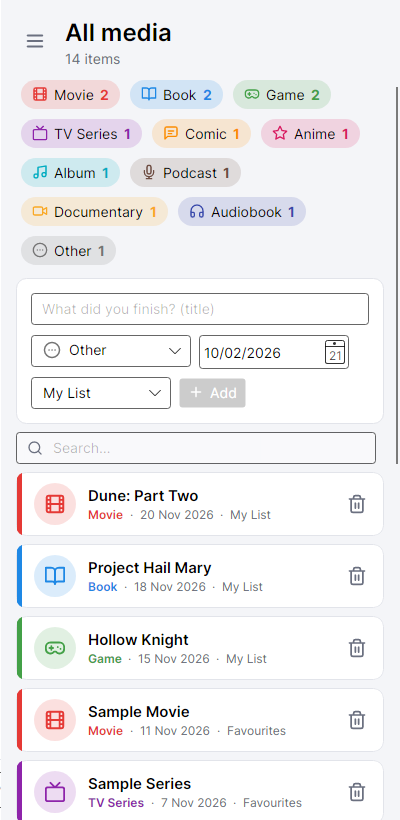
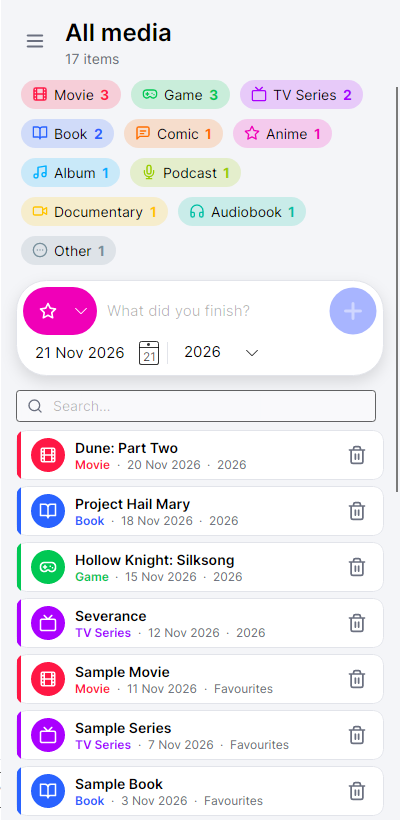
MediaLog: automatic year lists, one-line add bar, vivid type colors
- A list for the current year is created automatically and selected by
  default; previous years are kept and a new list appears on New Year,
  even while the app is running.
- Entries are added from a single slick bar (type pill, title, date,
  big round + button); on phones date/list drop to a second row.
- More distinct, saturated colors per type; entry rows are more compact
  with solid colored icon badges.

Claude-Session: https://claude.ai/code/session_01NWBCcXr1uMHCvRDya14kEE

diff --git a/apps/MediaLog/MediaLog/ViewModels/MainViewModel.cs b/apps/MediaLog/MediaLog/ViewModels/MainViewModel.cs
@@ -2,6 +2,7 @@ using System;
 using System.Collections.Generic;
 using System.Collections.ObjectModel;
 using System.Linq;
+using Avalonia.Threading;
 using CommunityToolkit.Mvvm.ComponentModel;
 using CommunityToolkit.Mvvm.Input;
 using MediaLog.Models;
@@ -36,7 +37,50 @@ public partial class MainViewModel : ViewModelBase
 
         NewType = Types[0];
         NewDate = DateTime.Today;
-        SelectedNav = NavItems.Count > 1 ? NavItems[1] : Master;
+        SelectedNav = EnsureCurrentYearList();
+
+        // Roll over to a new year list if the app is left open across New Year.
+        if (store is not null)
+        {
+            _yearTimer = new DispatcherTimer(TimeSpan.FromMinutes(5), DispatcherPriority.Background, (_, _) => CheckYear());
+            _yearTimer.Start();
+        }
+    }
+
+    private readonly DispatcherTimer? _yearTimer;
+
+    /// <summary>The automatic list for the current calendar year.</summary>
+    public ListViewModel? CurrentYearList => UserLists.FirstOrDefault(l => l.Model!.Year == DateTime.Today.Year);
+
+    /// <summary>
+    /// Makes sure a list for the current year exists (previous years' lists are kept).
+    /// </summary>
+    private ListViewModel EnsureCurrentYearList()
+    {
+        if (CurrentYearList is { } existing)
+            return existing;
+
+        var year = DateTime.Today.Year;
+        var list = new MediaList { Name = year.ToString(System.Globalization.CultureInfo.InvariantCulture), Year = year };
+        _library.Lists.Add(list);
+        var vm = AddListViewModel(list);
+        Persist();
+        return vm;
+    }
+
+    private void CheckYear()
+    {
+        if (CurrentYearList is not null)
+            return;
+        var previous = UserLists.Where(l => l.IsYearList).MaxBy(l => l.Model!.Year);
+        var created = EnsureCurrentYearList();
+        // Follow the rollover if the user was looking at last year's list.
+        if (SelectedNav == previous || SelectedNav is null)
+            SelectedNav = created;
+        else
+            Refresh();
+        if (NewDate is { } d && d.Year < created.Model!.Year)
+            NewDate = DateTime.Today;
     }
 
     public IReadOnlyList<MediaTypeInfo> Types => MediaTypeInfo.All;
@@ -54,12 +98,19 @@ public partial class MainViewModel : ViewModelBase
     public ObservableCollection<TypeStatViewModel> Stats { get; } = [];
 
     [ObservableProperty]
-    [NotifyPropertyChangedFor(nameof(IsMasterSelected), nameof(IsUserListSelected))]
+    [NotifyPropertyChangedFor(nameof(IsMasterSelected), nameof(IsUserListSelected),
+        nameof(IsRenamableSelected), nameof(CanDeleteSelected))]
     [NotifyCanExecuteChangedFor(nameof(AddEntryCommand))]
     public partial ListViewModel? SelectedNav { get; set; }
 
     public bool IsMasterSelected => SelectedNav?.IsMaster == true;
     public bool IsUserListSelected => SelectedNav is { IsMaster: false };
+
+    /// <summary>Selected list can be renamed in place (custom lists only).</summary>
+    public bool IsRenamableSelected => SelectedNav?.CanRename == true;
+
+    /// <summary>Everything but the master list and the current year's list can be deleted.</summary>
+    public bool CanDeleteSelected => SelectedNav is { IsMaster: false } s && s != CurrentYearList;
 
     /// <summary>Total number of entries in the selected scope (before search / type filter).</summary>
     [ObservableProperty]
@@ -123,7 +174,7 @@ public partial class MainViewModel : ViewModelBase
         if (value is { IsMaster: false })
             TargetList = value;
         else if (TargetList is null || !UserLists.Contains(TargetList))
-            TargetList = UserLists.FirstOrDefault();
+            TargetList = CurrentYearList ?? UserLists.FirstOrDefault();
         Refresh();
     }
 
@@ -211,7 +262,7 @@ public partial class MainViewModel : ViewModelBase
     private void ConfirmDeleteList()
     {
         IsConfirmingDelete = false;
-        if (SelectedNav?.Model is not { } model)
+        if (!CanDeleteSelected || SelectedNav?.Model is not { } model)
             return;
 
         var vm = SelectedNav;
@@ -220,7 +271,7 @@ public partial class MainViewModel : ViewModelBase
         UserLists.Remove(vm);
         NavItems.Remove(vm);
         if (TargetList == vm)
-            TargetList = UserLists.FirstOrDefault();
+            TargetList = CurrentYearList ?? UserLists.FirstOrDefault();
         if (_lastDeleted?.List == vm)
             DismissUndo();
         Persist();
@@ -240,12 +291,25 @@ public partial class MainViewModel : ViewModelBase
     private void ToggleType(TypeStatViewModel stat) =>
         TypeFilter = TypeFilter == stat.Type.Kind ? null : stat.Type.Kind;
 
+    /// <summary>
+    /// Adds a list to the sidebar, keeping year lists (newest first) above custom lists.
+    /// </summary>
     private ListViewModel AddListViewModel(MediaList list)
     {
         var vm = ListViewModel.ForList(list, OnListRenamed);
-        UserLists.Add(vm);
-        NavItems.Add(vm);
         vm.Count = list.Entries.Count;
+
+        int index;
+        if (list.Year is { } year)
+        {
+            index = UserLists.TakeWhile(l => l.Model!.Year is { } y && y > year).Count();
+        }
+        else
+        {
+            index = UserLists.Count;
+        }
+        UserLists.Insert(index, vm);
+        NavItems.Insert(index + 1, vm); // + 1 for the master list
         return vm;
     }
 

diff --git a/apps/MediaLog/MediaLog/Models/MediaTypeInfo.cs b/apps/MediaLog/MediaLog/Models/MediaTypeInfo.cs
@@ -15,7 +15,10 @@ public sealed class MediaTypeInfo
         Label = label;
         Color = Color.Parse(color);
         Brush = new ImmutableSolidColorBrush(Color);
-        SoftBrush = new ImmutableSolidColorBrush(Color, 0.16);
+        SoftBrush = new ImmutableSolidColorBrush(Color, 0.18);
+        // Dark foreground on light colors (yellow, lime…), white on the rest.
+        var luminance = (0.2126 * Color.R + 0.7152 * Color.G + 0.0722 * Color.B) / 255;
+        OnBrush = luminance > 0.6 ? new ImmutableSolidColorBrush(Color.Parse("#1A1A1A")) : Brushes.White;
         Icon = Geometry.Parse(icon);
     }
 
@@ -27,6 +30,9 @@ public sealed class MediaTypeInfo
     /// <summary>Translucent version of <see cref="Brush"/> used for chip / badge backgrounds.</summary>
     public IBrush SoftBrush { get; }
 
+    /// <summary>Readable foreground to draw on top of <see cref="Brush"/>.</summary>
+    public IBrush OnBrush { get; }
+
     /// <summary>Stroke icon drawn on a 24×24 grid (rendered by <see cref="StrokeIcon"/>).</summary>
     public Geometry Icon { get; }
 
@@ -34,27 +40,27 @@ public sealed class MediaTypeInfo
 
     public static IReadOnlyList<MediaTypeInfo> All { get; } =
     [
-        new(MediaKind.Movie, "Movie", "#E53935",
+        new(MediaKind.Movie, "Movie", "#FF1744",
             "M5 3h14a2 2 0 0 1 2 2v14a2 2 0 0 1-2 2H5a2 2 0 0 1-2-2V5a2 2 0 0 1 2-2z M7 3v18 M17 3v18 M3 12h18 M3 7.5h4 M3 16.5h4 M17 7.5h4 M17 16.5h4"),
-        new(MediaKind.Series, "TV Series", "#8E24AA",
+        new(MediaKind.Series, "TV Series", "#AA00FF",
             "M4 7h16a2 2 0 0 1 2 2v11a2 2 0 0 1-2 2H4a2 2 0 0 1-2-2V9a2 2 0 0 1 2-2z M17 2l-5 5-5-5"),
-        new(MediaKind.Book, "Book", "#1E88E5",
+        new(MediaKind.Book, "Book", "#2962FF",
             "M2 3h6a4 4 0 0 1 4 4v14a3 3 0 0 0-3-3H2z M22 3h-6a4 4 0 0 0-4 4v14a3 3 0 0 1 3-3h7z"),
-        new(MediaKind.Game, "Game", "#43A047",
+        new(MediaKind.Game, "Game", "#00C853",
             "M7 6h10a5 5 0 0 1 5 5v2a5 5 0 0 1-9 3h-2a5 5 0 0 1-9-3v-2a5 5 0 0 1 5-5z M6 12h4 M8 10v4 M15 11h.01 M18 13h.01"),
-        new(MediaKind.Comic, "Comic", "#FB8C00",
+        new(MediaKind.Comic, "Comic", "#FF6D00",
             "M21 15a2 2 0 0 1-2 2H7l-4 4V5a2 2 0 0 1 2-2h14a2 2 0 0 1 2 2z M8 9h8 M8 13h5"),
-        new(MediaKind.Anime, "Anime", "#D81B60",
+        new(MediaKind.Anime, "Anime", "#F000B8",
             "M12 2l3.09 6.26L22 9.27l-5 4.87 1.18 6.88L12 17.77l-6.18 3.25L7 14.14 2 9.27l6.91-1.01z"),
-        new(MediaKind.Music, "Album", "#00ACC1",
+        new(MediaKind.Music, "Album", "#00B0FF",
             "M9 18V5l12-2v13 M6 15a3 3 0 1 1 0 6 3 3 0 0 1 0-6z M18 13a3 3 0 1 1 0 6 3 3 0 0 1 0-6z"),
-        new(MediaKind.Podcast, "Podcast", "#6D4C41",
+        new(MediaKind.Podcast, "Podcast", "#9ACD00",
             "M12 2a3 3 0 0 0-3 3v7a3 3 0 0 0 6 0V5a3 3 0 0 0-3-3z M19 10v2a7 7 0 0 1-14 0v-2 M12 19v3 M8 22h8"),
-        new(MediaKind.Documentary, "Documentary", "#F9A825",
+        new(MediaKind.Documentary, "Documentary", "#FFC400",
             "M4 6h10a2 2 0 0 1 2 2v8a2 2 0 0 1-2 2H4a2 2 0 0 1-2-2V8a2 2 0 0 1 2-2z M16 10.5l6-3.5v10l-6-3.5"),
-        new(MediaKind.Audiobook, "Audiobook", "#3949AB",
+        new(MediaKind.Audiobook, "Audiobook", "#00BFA5",
             "M3 14h3a2 2 0 0 1 2 2v3a2 2 0 0 1-2 2H5a2 2 0 0 1-2-2v-7a9 9 0 0 1 18 0v7a2 2 0 0 1-2 2h-1a2 2 0 0 1-2-2v-3a2 2 0 0 1 2-2h3"),
-        new(MediaKind.Other, "Other", "#757575",
+        new(MediaKind.Other, "Other", "#78909C",
             "M12 2a10 10 0 1 1 0 20 10 10 0 0 1 0-20z M8 12h.01 M12 12h.01 M16 12h.01"),
     ];
 

diff --git a/apps/MediaLog/MediaLog/ViewModels/ListViewModel.cs b/apps/MediaLog/MediaLog/ViewModels/ListViewModel.cs
@@ -29,7 +29,13 @@ public partial class ListViewModel : ViewModelBase
 
     public bool IsMaster => Model is null;
 
-    public Geometry Icon => IsMaster ? Icons.Layers : Icons.List;
+    /// <summary>Automatic list for a calendar year (name is fixed to the year).</summary>
+    public bool IsYearList => Model?.Year is not null;
+
+    /// <summary>User lists can be renamed; the master and year lists can't.</summary>
+    public bool CanRename => !IsMaster && !IsYearList;
+
+    public Geometry Icon => IsMaster ? Icons.Layers : IsYearList ? Icons.Calendar : Icons.List;
 
     [ObservableProperty]
     public partial int Count { get; set; }
@@ -41,7 +47,7 @@ public partial class ListViewModel : ViewModelBase
         get => _name;
         set
         {
-            if (IsMaster || value == _name)
+            if (!CanRename || value == _name)
                 return;
             // Keep the previous name if the user clears the field entirely.
             var trimmed = value.Trim();

diff --git a/apps/MediaLog/MediaLog/Controls/Icons.cs b/apps/MediaLog/MediaLog/Controls/Icons.cs
@@ -10,6 +10,7 @@ public static class Icons
     public static Geometry Menu { get; } = Geometry.Parse("M4 6h16 M4 12h16 M4 18h16");
     public static Geometry Layers { get; } = Geometry.Parse("M12 2l10 5-10 5-10-5z M2 17l10 5 10-5 M2 12l10 5 10-5");
     public static Geometry List { get; } = Geometry.Parse("M8 6h13 M8 12h13 M8 18h13 M3 6h.01 M3 12h.01 M3 18h.01");
+    public static Geometry Calendar { get; } = Geometry.Parse("M5 4h14a2 2 0 0 1 2 2v14a2 2 0 0 1-2 2H5a2 2 0 0 1-2-2V6a2 2 0 0 1 2-2z M16 2v4 M8 2v4 M3 10h18");
     public static Geometry Search { get; } = Geometry.Parse("M11 3a8 8 0 1 1 0 16 8 8 0 0 1 0-16z M21 21l-4.3-4.3");
     public static Geometry Close { get; } = Geometry.Parse("M18 6L6 18 M6 6l12 12");
     public static Geometry Check { get; } = Geometry.Parse("M20 6L9 17l-5-5");

diff --git a/apps/MediaLog/MediaLog/Views/MainView.axaml.cs b/apps/MediaLog/MediaLog/Views/MainView.axaml.cs
@@ -36,6 +36,13 @@ public partial class MainView : UserControl
 
         Split.DisplayMode = compact ? SplitViewDisplayMode.Overlay : SplitViewDisplayMode.Inline;
         PaneToggle.IsVisible = compact;
+        Classes.Set("compact", compact);
+
+        // Date / list pickers share the add bar's line on wide screens, and get their own row on phones.
+        MetaWide.Child = null;
+        MetaCompact.Child = null;
+        (compact ? MetaCompact : MetaWide).Child = Meta;
+        MetaCompact.IsVisible = compact;
         if (DataContext is MainViewModel vm)
             vm.IsPaneOpen = !compact;
         else

diff --git a/apps/MediaLog/MediaLog/Models/MediaList.cs b/apps/MediaLog/MediaLog/Models/MediaList.cs
@@ -8,6 +8,10 @@ public sealed class MediaList
 {
     public Guid Id { get; set; } = Guid.NewGuid();
     public string Name { get; set; } = "";
+
+    /// <summary>Set for the automatic per-year lists; <c>null</c> for user-created lists.</summary>
+    public int? Year { get; set; }
+
     public List<MediaEntry> Entries { get; set; } = [];
 }
 

diff --git a/apps/MediaLog/MediaLog/Services/LibraryStore.cs b/apps/MediaLog/MediaLog/Services/LibraryStore.cs
@@ -93,7 +93,8 @@ public sealed class LibraryStore
                 _storage.Backup(json);
         }
 
-        return new Library { Lists = [new MediaList { Name = "My List" }] };
+        // The current year's list is created by the view model.
+        return new Library();
     }
 
     public void Save(Library library) =>

diff --git a/apps/MediaLog/README.md b/apps/MediaLog/README.md
@@ -10,8 +10,11 @@ documentaries, audiobooks…
 
 ## Features
 
-- **Lists** – create as many lists as you like (e.g. "2026", "Favourites"); rename by clicking the title, delete from the header.
-- **Entries** – name, type, date completed; each type has its own **color** and **icon**.
+- **Year lists** – a list for the current year (e.g. "2026") is created automatically and is the default.
+  Past years' lists are kept; on New Year a fresh list for the new year is created (even while the app is open).
+- **Custom lists** – create as many extra lists as you like (e.g. "Favourites"); rename by clicking the title, delete from the header.
+- **Entries** – added from a one-line bar: type · title · date · big **+** button (or press Enter).
+  Each type has its own vivid **color** and **icon**.
 - **All media (master list)** – every entry from every list, with the **total count** and a color‑coded counter per type.
 - Click a type chip to filter by it; search by title; entries sorted by completion date (newest first).
 - Undo for deleted entries.
